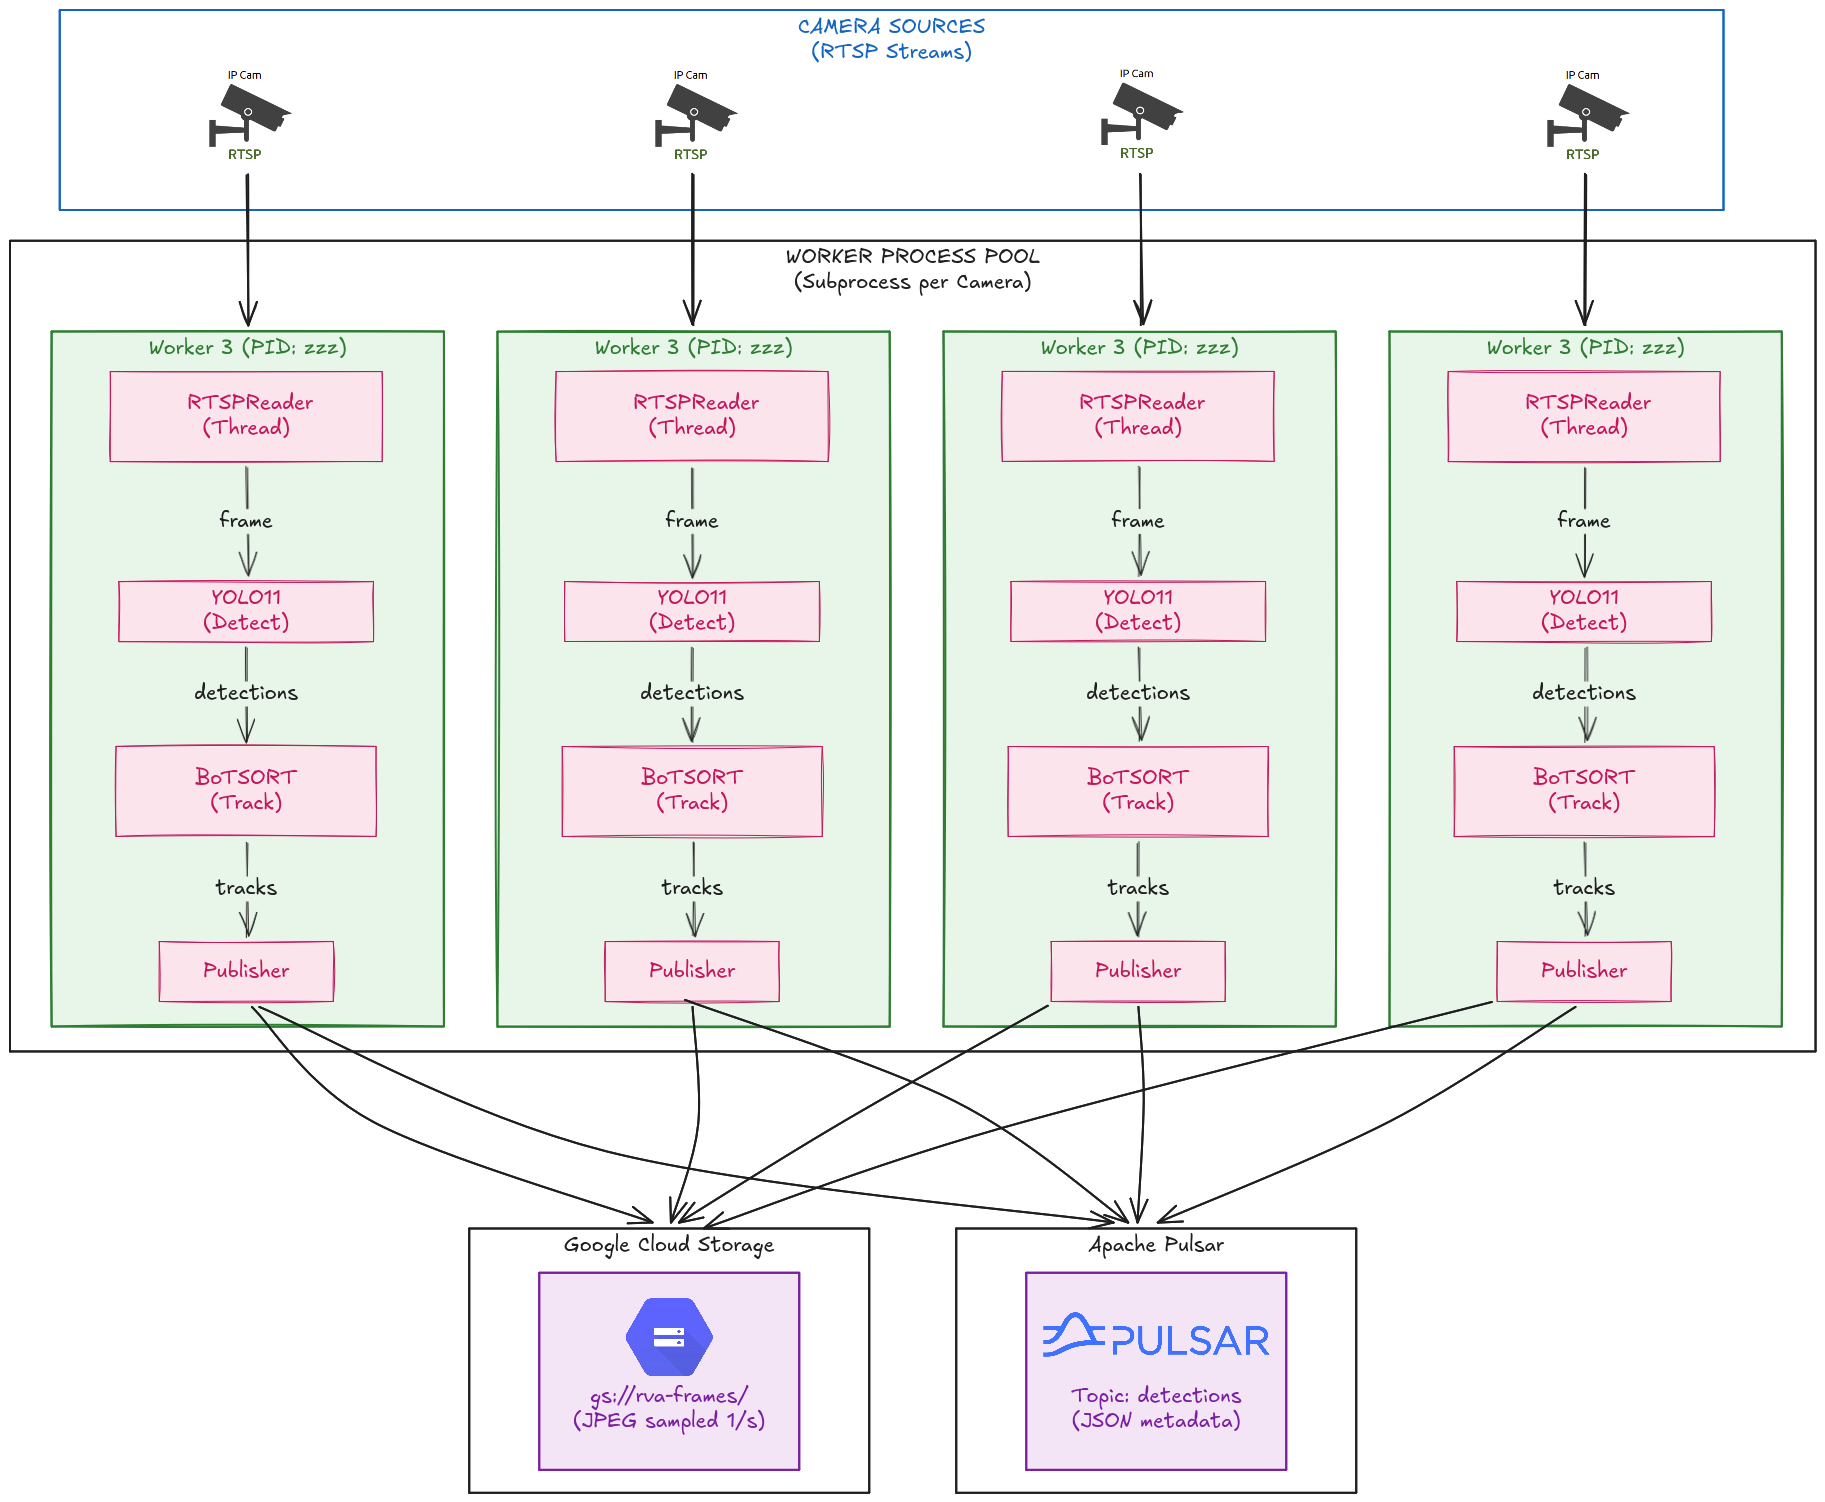
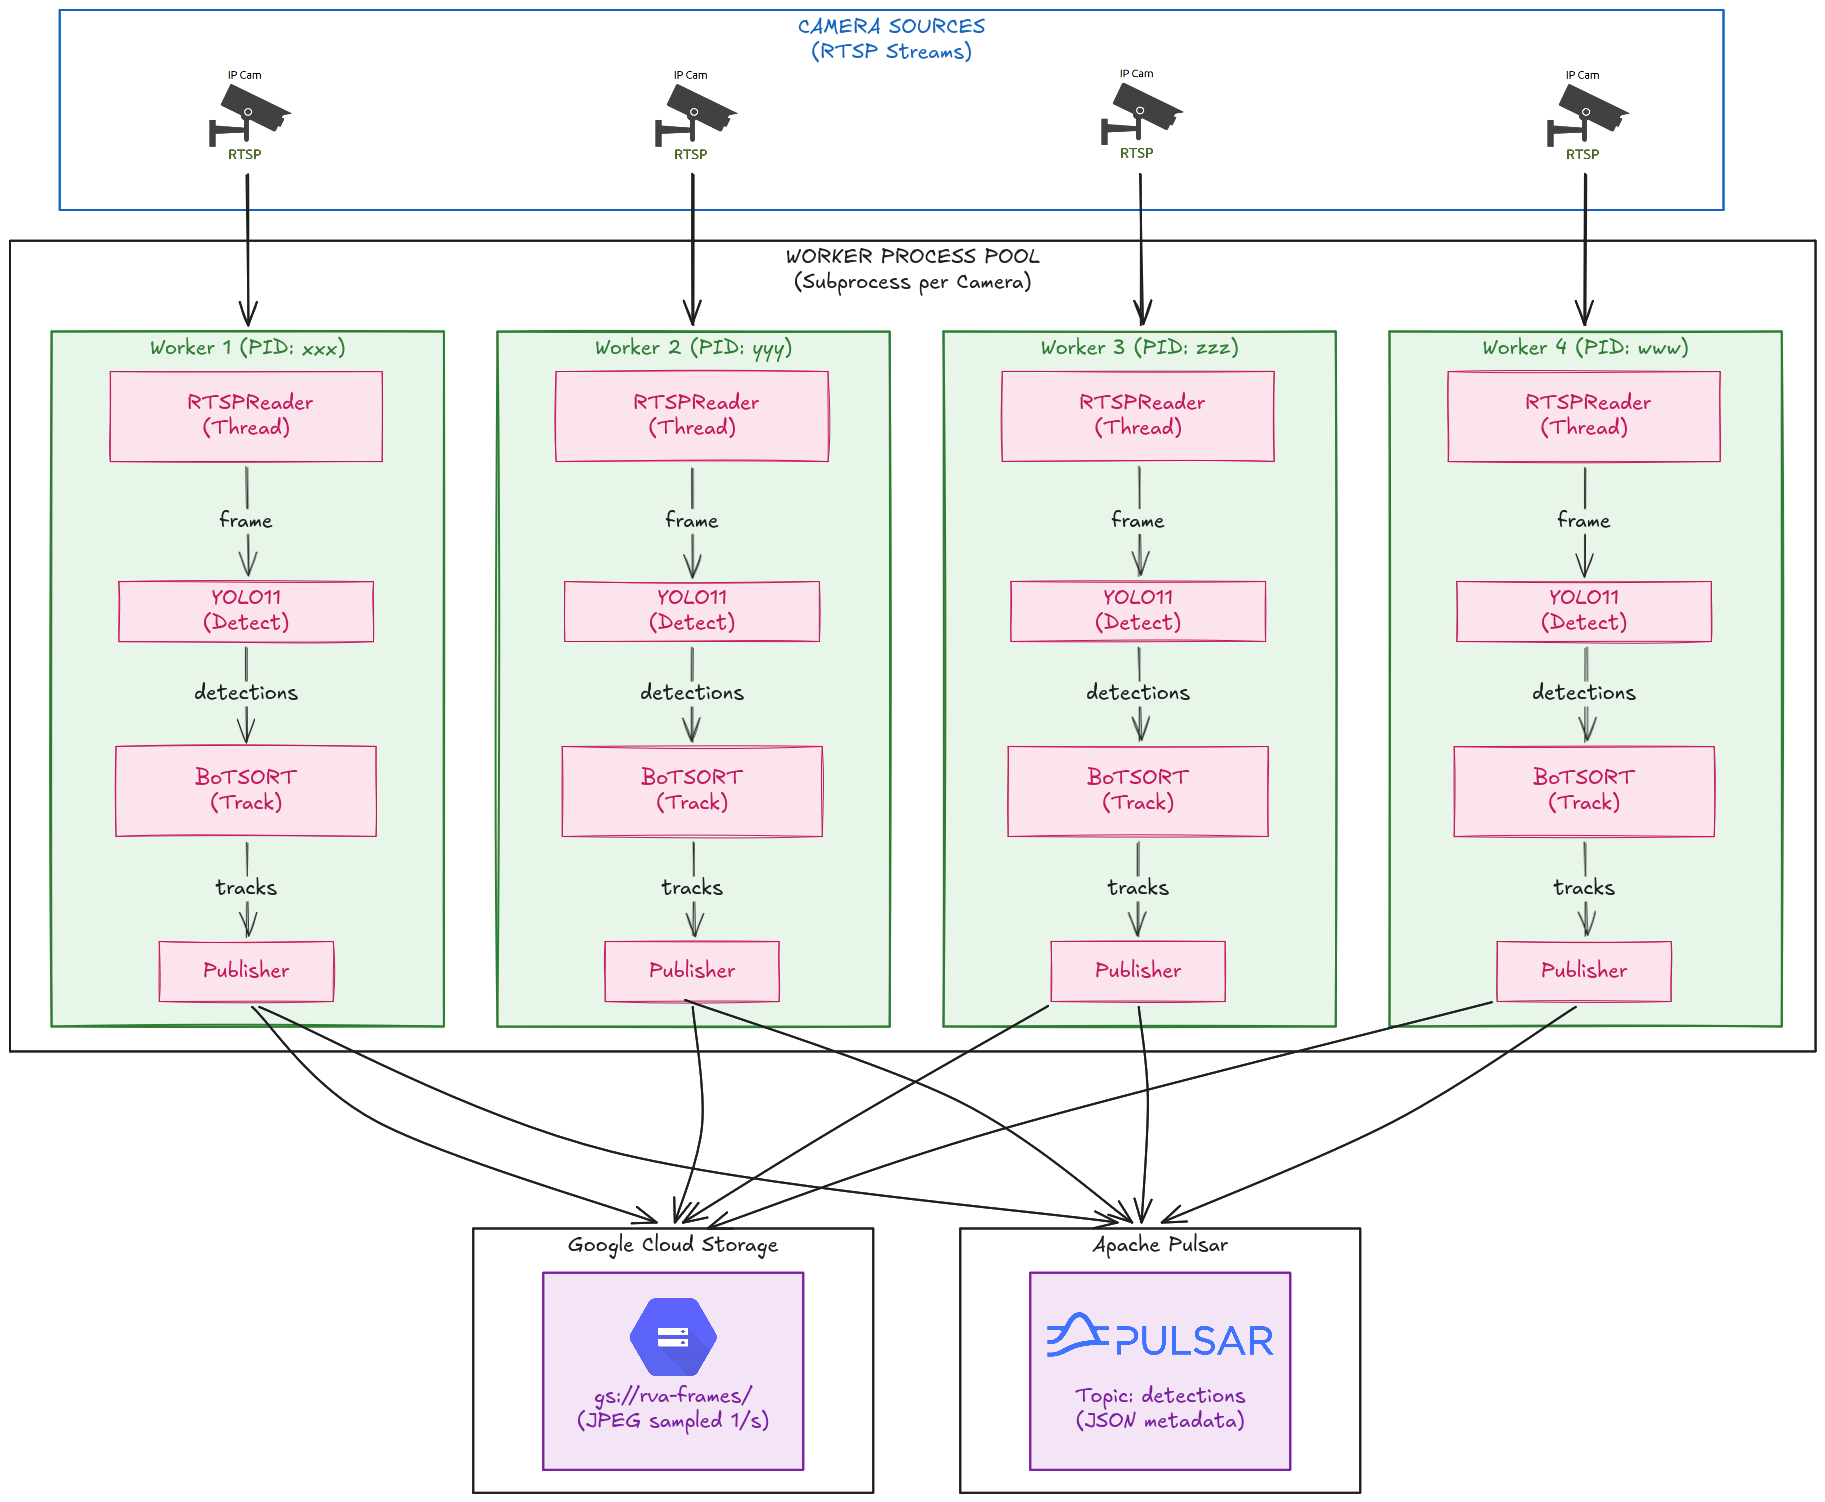
docs: update readme

diff --git a/README.md b/README.md
@@ -39,3 +39,8 @@ Real-time people detection, tracking, and crowd density analysis for retail stor
 | Flink UI | http://localhost:8081 |
 | Pulsar Admin | http://localhost:8084 |
 | GCS Console | https://console.cloud.google.com/storage |
+
+## UI Concept: Live Heatmap Overlay
+*(Reference preview of the expected real-time dashboard)*
+
+![Heatmap Preview](docs/images/heatmap-preview.png)
